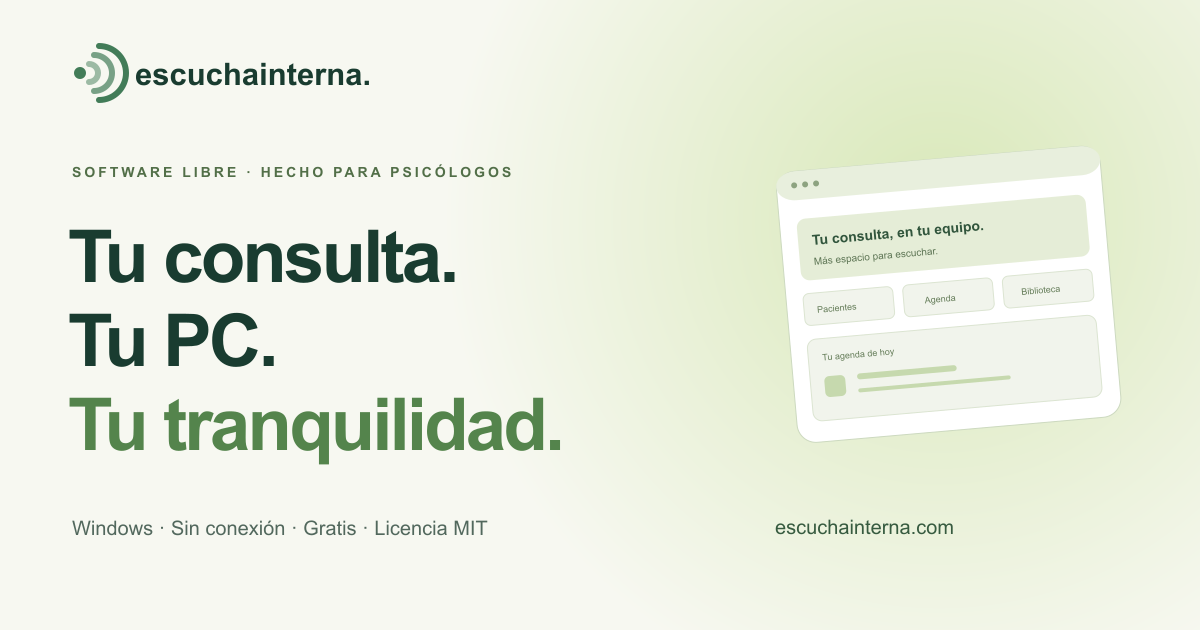
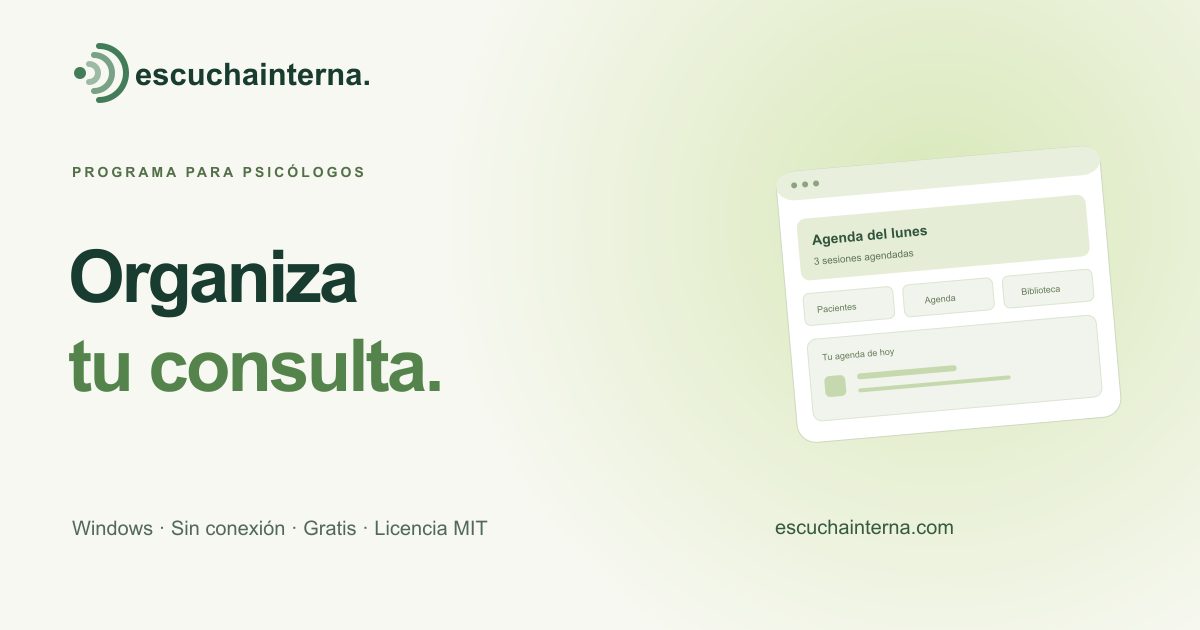
refine: textos web y diseño de consentimientos con Google

Changed region(s): [[0.0617, 0.3619, 0.4625, 0.754], [0.0617, 0.2413, 0.4317, 0.3016], [0.6783, 0.3619, 0.8017, 0.4222]]

diff --git a/src/components/showcase/OpenSourceShowcase.tsx b/src/components/showcase/OpenSourceShowcase.tsx
@@ -17,12 +17,12 @@ const PALETTES = [
 ];
 
 const FAQ = [
-  ['¿Es gratis de verdad?', 'Sí. La edición para PC no tiene suscripción ni período de prueba. El código propio tiene licencia MIT: puedes estudiarlo, modificarlo y contribuir. El apoyo en Ko-fi es voluntario. Los servicios externos que decidas conectar pueden tener sus propios costos.'],
-  ['¿Qué necesito para instalarlo?', 'Una PC con Windows de 64 bits. Descarga el instalador desde las versiones de GitHub, ejecútalo y crea tu cuenta local. El programa incluye su servidor y su base de datos: no necesitas instalar Node.js ni contratar alojamiento. macOS y Linux todavía no tienen un instalador publicado.'],
-  ['¿Puedo trabajar sin internet?', 'Sí: agenda, pacientes, expedientes, notas, registro de pagos y lecturas que hayas instalado funcionan en local. Google Drive, Calendar, correo e IA de proveedores necesitan internet y una configuración propia. Los recordatorios locales no se ejecutan con el programa cerrado.'],
-  ['¿Cómo continúo en otra PC?', 'Conecta una carpeta de Google Drive para escritorio y crea una contraseña de cifrado. Publica una versión de tu consulta, espera a que Drive la entregue y recíbela en la otra PC con la misma contraseña. Es un intercambio manual de versiones completas: trabaja en una PC a la vez; no fusiona cambios simultáneos. También puedes trasladar un respaldo cifrado.'],
-  ['¿Incluye inteligencia artificial, correo y Google Calendar?', 'Son opcionales. Puedes configurar tus claves de OpenAI, Anthropic o Resend. Calendar requiere tu propio cliente OAuth de escritorio y autorización de Google; permite publicar horarios privados y revisar conflictos. La aplicación sigue funcionando sin conectar estos servicios.'],
-  ['¿Qué incluye la biblioteca?', 'Un catálogo y lector para tus archivos y publicaciones instaladas. Los libros, publicaciones externas y el catálogo CIE-11 se distribuyen aparte; no están incluidos en el instalador público. Sus licencias son independientes de la licencia del código.'],
+  ['¿El programa es gratuito?', 'Sí. Puedes usar la edición para PC sin pagar una suscripción. El apoyo en Ko-fi es voluntario. Si conectas un proveedor de correo o IA, sus tarifas se pagan por separado.'],
+  ['¿Qué necesito para instalarlo?', 'Windows de 64 bits. Descarga y ejecuta el instalador de GitHub; después, crea tu cuenta en el programa. El instalador incluye todo lo necesario. Todavía no hay instaladores para macOS ni Linux.'],
+  ['¿Puedo trabajar sin internet?', 'Sí. Puedes consultar la agenda, los expedientes, los pagos y las lecturas instaladas sin conexión. Google Drive, Calendar, el envío de correo y la IA de proveedores requieren internet. Para ejecutar recordatorios locales, el programa debe estar abierto.'],
+  ['¿Cómo continúo en otra PC?', 'Configura una carpeta de Google Drive para escritorio y una contraseña de cifrado en ambas PCs. Desde el programa, envía una copia completa y recíbela en el otro equipo cuando Drive termine de transferirla. Usa una PC a la vez: los cambios simultáneos no se combinan. También puedes trasladar un respaldo cifrado.'],
+  ['¿Cómo conecto correo, IA o Google Calendar?', 'En Configuración puedes añadir tus claves de OpenAI, Anthropic o Resend. Para Calendar necesitas registrar un cliente OAuth de escritorio y autorizarlo en Google. Estas conexiones son opcionales.'],
+  ['¿Qué incluye la biblioteca?', 'La biblioteca permite organizar y leer los archivos que instales en cada equipo. El instalador público no incluye libros, publicaciones externas ni el catálogo CIE-11; estos contenidos se distribuyen por separado y tienen sus propias licencias.'],
 ];
 
 function ProjectBrand() {
@@ -41,10 +41,10 @@ function ProductPreview({ palette = 0, dark = false }: { palette?: number; dark?
       <div className={styles.previewContent}>
         <div className={styles.previewBreadcrumb}>Tu consulta <ChevronRight size={12} aria-hidden="true" /> {section}<span className={styles.localBadge}><i /> En esta PC</span></div>
         {section === 'Inicio' || section === 'Agenda' ? <>
-          <div className={styles.previewWelcome}><span>UN NUEVO DÍA EN TU CONSULTA</span><h3>{section === 'Inicio' ? 'Más espacio para escuchar.' : 'Tu día, con claridad.'}</h3><p>Lunes · Una vista de ejemplo</p><span className={styles.previewFlower} aria-hidden="true">✳</span></div>
+          <div className={styles.previewWelcome}><span>LUNES · AGENDA</span><h3>{section === 'Inicio' ? 'Agenda del lunes' : 'Sesiones de hoy'}</h3><p>3 sesiones agendadas · Datos de ejemplo</p><span className={styles.previewFlower} aria-hidden="true">✳</span></div>
           <div className={styles.previewActions}><span><Users size={16} aria-hidden="true" /> Nuevo paciente</span><span><CalendarDays size={16} aria-hidden="true" /> Agenda de hoy</span><span><BookOpen size={16} aria-hidden="true" /> Biblioteca</span></div>
           <div className={styles.previewAgenda}><div><h4>Tu agenda de hoy</h4><span>Ver agenda <ArrowRight size={12} aria-hidden="true" /></span></div>{[{ time: '09:00', initials: 'AL', label: 'Sesión individual', color: 'green' }, { time: '11:30', initials: 'MC', label: 'Sesión de seguimiento', color: 'purple' }, { time: '15:00', initials: 'JR', label: 'Primera consulta', color: 'warm' }].map(row => <div className={styles.previewBooking} key={row.time}><time>{row.time}</time><span className={styles.previewAvatar} data-color={row.color}>{row.initials}</span><div><strong>{row.label}</strong><small>Paciente de ejemplo · 50 min</small></div><span className={styles.previewStatus}>Agendada</span></div>)}</div>
-        </> : section === 'Pacientes' ? <><div className={styles.previewWelcome}><span>CADA HISTORIA, EN SU LUGAR</span><h3>Pacientes y expedientes.</h3><p>Plantillas, notas y documentos a mano.</p></div><div className={styles.previewAgenda}><h4>Vista de ejemplo</h4>{['Paciente de ejemplo A', 'Paciente de ejemplo B', 'Paciente de ejemplo C'].map((name, index) => <div key={name} className={styles.previewBooking}><span className={styles.previewAvatar}>{index + 1}</span><div><strong>{name}</strong><small>Historia clínica · Notas de sesión</small></div><FileText size={17} aria-hidden="true" /></div>)}</div></> : <><div className={styles.previewWelcome}><span>MENOS HOJAS DE CÁLCULO</span><h3>Pagos con perspectiva.</h3><p>Un registro local de tu actividad.</p></div><div className={styles.previewAgenda}><h4>Resumen ilustrativo</h4><div className={styles.previewMetrics}><div><small>Sesiones registradas</small><strong>24</strong></div><div><small>Pagos al día</small><strong>21</strong></div></div><div className={styles.previewChart} aria-hidden="true">{[35, 52, 43, 67, 58, 82, 70, 95].map((height, index) => <span key={index} style={{ height: `${height}%` }} />)}</div></div></>}
+        </> : section === 'Pacientes' ? <><div className={styles.previewWelcome}><span>EXPEDIENTES</span><h3>Pacientes</h3><p>Historias clínicas, notas y documentos.</p></div><div className={styles.previewAgenda}><h4>Vista de ejemplo</h4>{['Paciente de ejemplo A', 'Paciente de ejemplo B', 'Paciente de ejemplo C'].map((name, index) => <div key={name} className={styles.previewBooking}><span className={styles.previewAvatar}>{index + 1}</span><div><strong>{name}</strong><small>Historia clínica · Notas de sesión</small></div><FileText size={17} aria-hidden="true" /></div>)}</div></> : <><div className={styles.previewWelcome}><span>ACTIVIDAD REGISTRADA</span><h3>Registro de pagos</h3><p>Consulta los cobros de tus sesiones.</p></div><div className={styles.previewAgenda}><h4>Resumen ilustrativo</h4><div className={styles.previewMetrics}><div><small>Sesiones registradas</small><strong>24</strong></div><div><small>Pagos al día</small><strong>21</strong></div></div><div className={styles.previewChart} aria-hidden="true">{[35, 52, 43, 67, 58, 82, 70, 95].map((height, index) => <span key={index} style={{ height: `${height}%` }} />)}</div></div></>}
         <p className={styles.previewFootnote}>Demostración interactiva · Datos ficticios</p>
       </div>
     </div>
@@ -70,41 +70,41 @@ export function OpenSourceShowcase() {
   const closeMenu = () => setMenuOpen(false);
   return <div className={styles.showcase} ref={root} data-motion-paused={motionPaused ? 'true' : 'false'}>
     <a href="#contenido" className={styles.skipLink}>Saltar al contenido</a>
-    <header className={styles.header}><div className={styles.navInner}><ProjectBrand /><button type="button" className={styles.menuToggle} aria-label={menuOpen ? 'Cerrar menú' : 'Abrir menú'} aria-expanded={menuOpen} aria-controls="showcase-navigation" onClick={() => setMenuOpen(!menuOpen)}>{menuOpen ? <X size={23} /> : <Menu size={23} />}</button><nav id="showcase-navigation" aria-label="Navegación principal" className={styles.nav} data-open={menuOpen ? 'true' : 'false'}><a href="#aplicacion" onClick={closeMenu}>La aplicación</a><a href="#apariencia" onClick={closeMenu}>A tu manera</a><a href="#proyecto" onClick={closeMenu}>Código abierto</a><a href={PROJECT_LINKS.support} target="_blank" rel="noopener noreferrer" className={styles.navSupport}><Coffee size={15} aria-hidden="true" /> Apoyar</a><a href={PROJECT_LINKS.download} className={styles.navDownload}><Download size={15} aria-hidden="true" /> Descargar</a></nav></div></header>
+    <header className={styles.header}><div className={styles.navInner}><ProjectBrand /><button type="button" className={styles.menuToggle} aria-label={menuOpen ? 'Cerrar menú' : 'Abrir menú'} aria-expanded={menuOpen} aria-controls="showcase-navigation" onClick={() => setMenuOpen(!menuOpen)}>{menuOpen ? <X size={23} /> : <Menu size={23} />}</button><nav id="showcase-navigation" aria-label="Navegación principal" className={styles.nav} data-open={menuOpen ? 'true' : 'false'}><a href="#aplicacion" onClick={closeMenu}>La aplicación</a><a href="#apariencia" onClick={closeMenu}>Temas</a><a href="#proyecto" onClick={closeMenu}>Código abierto</a><a href={PROJECT_LINKS.support} target="_blank" rel="noopener noreferrer" className={styles.navSupport}><Coffee size={15} aria-hidden="true" /> Apoyar</a><a href={PROJECT_LINKS.download} className={styles.navDownload}><Download size={15} aria-hidden="true" /> Descargar</a></nav></div></header>
     <main id="contenido">
       <section className={styles.hero} aria-labelledby="hero-title">
         <div className={styles.heroGlow} aria-hidden="true" /><div className={styles.heroGrid} aria-hidden="true" />
-        <div className={styles.heroCopy}><span className={styles.eyebrow}><i /> SOFTWARE LIBRE · HECHO PARA PSICÓLOGOS</span><h1 id="hero-title">Tu consulta.<br />Tu PC.<br /><span>Tu tranquilidad.</span></h1><p>Un espacio para organizar tu práctica y concentrarte en lo que importa: escuchar. Gratis, de código abierto y con tus datos en tu equipo.</p><div className={styles.heroButtons}><a href={PROJECT_LINKS.download} className={styles.buttonPrimary}><Download size={19} aria-hidden="true" /> Descargar para Windows <ArrowUpRight size={17} aria-hidden="true" /></a><a href={PROJECT_LINKS.repository} className={styles.buttonSecondary}><Github size={19} aria-hidden="true" /> Ver el código</a></div><span className={styles.heroMeta}>Windows de 64 bits <span>·</span> Licencia MIT <span>·</span> Sin suscripción</span><a href="#aplicacion" className={styles.heroExplore}><span><ArrowDown size={16} aria-hidden="true" /></span> Descubre tu nuevo espacio de trabajo</a></div>
-        <div className={styles.heroProduct}><div className={styles.heroOrbit} aria-hidden="true" /><ProductPreview /><div className={`${styles.floatingNote} ${styles.offlineNote}`}><span><WifiOff size={19} aria-hidden="true" /></span><div><strong>Internet puede esperar.</strong><small>Tu consulta sigue funcionando.</small></div></div><div className={`${styles.floatingNote} ${styles.privacyNote}`}><ShieldCheck size={19} aria-hidden="true" /><span>Tus datos se quedan contigo.</span></div></div>
+        <div className={styles.heroCopy}><span className={styles.eyebrow}><i /> PROGRAMA PARA PSICÓLOGOS</span><h1 id="hero-title">Organiza<br /><span>tu consulta.</span></h1><p>Agenda, pacientes, historias clínicas y pagos en una aplicación para Windows. Puedes trabajar sin internet y guardar la información en tu equipo.</p><div className={styles.heroButtons}><a href={PROJECT_LINKS.download} className={styles.buttonPrimary}><Download size={19} aria-hidden="true" /> Descargar para Windows <ArrowUpRight size={17} aria-hidden="true" /></a><a href={PROJECT_LINKS.repository} className={styles.buttonSecondary}><Github size={19} aria-hidden="true" /> Ver el código</a></div><span className={styles.heroMeta}>Windows de 64 bits <span>·</span> Licencia MIT <span>·</span> Sin suscripción</span><a href="#aplicacion" className={styles.heroExplore}><span><ArrowDown size={16} aria-hidden="true" /></span> Conoce el programa</a></div>
+        <div className={styles.heroProduct}><div className={styles.heroOrbit} aria-hidden="true" /><ProductPreview /><div className={`${styles.floatingNote} ${styles.offlineNote}`}><span><WifiOff size={19} aria-hidden="true" /></span><div><strong>Disponible sin conexión</strong><small>Agenda y expedientes en tu PC.</small></div></div><div className={`${styles.floatingNote} ${styles.privacyNote}`}><ShieldCheck size={19} aria-hidden="true" /><span>Información guardada en tu equipo</span></div></div>
       </section>
 
-      <div className={styles.principles} aria-label="Beneficios principales"><span><HardDrive size={20} aria-hidden="true" /> Primero, tu PC</span><span><WifiOff size={20} aria-hidden="true" /> Funciona sin conexión</span><span><Code2 size={20} aria-hidden="true" /> Código que puedes explorar</span><span><Heart size={20} aria-hidden="true" /> Apoyo voluntario</span></div>
+      <div className={styles.principles} aria-label="Beneficios principales"><span><HardDrive size={20} aria-hidden="true" /> Instalación en Windows</span><span><WifiOff size={20} aria-hidden="true" /> Funciona sin conexión</span><span><Code2 size={20} aria-hidden="true" /> Código abierto</span><span><Heart size={20} aria-hidden="true" /> Apoyo voluntario</span></div>
 
       <section id="aplicacion" className={styles.section} aria-labelledby="app-title">
-        <div className={styles.sectionHeading} data-reveal><div><span className={styles.kicker}>MENOS RUIDO. MÁS CONSULTA.</span><h2 id="app-title">Todo encuentra<br /><span>su lugar.</span></h2></div><p>De la primera cita a la siguiente sesión. Las herramientas de tu día a día, juntas en una aplicación que abre en tu PC.</p></div>
+        <div className={styles.sectionHeading} data-reveal><div><span className={styles.kicker}>HERRAMIENTAS</span><h2 id="app-title">Para el trabajo<br /><span>de cada día.</span></h2></div><p>Consulta las citas, completa una historia clínica o registra un cobro desde el mismo programa.</p></div>
         <div className={styles.bento}>
-          <article className={`${styles.bentoCard} ${styles.agendaCard}`} data-reveal><div className={styles.cardIcon}><CalendarDays size={25} aria-hidden="true" /></div><h3>Una agenda que da aire.</h3><p>Organiza horarios, disponibilidad y sesiones. Cambia entre vistas de calendario para entender tu día de un vistazo.</p><div className={styles.calendarArt} aria-hidden="true"><div><span>L</span><span>M</span><span>X</span><span>J</span><span>V</span></div><div className={styles.calendarCells}>{Array.from({length: 15}, (_, i) => <span key={i} className={[2, 7, 10].includes(i) ? styles.calendarBooked : ''}>{[2, 7, 10].includes(i) ? <><i />Sesión</> : ''}</span>)}</div></div><span className={styles.cardLabel}>AGENDA Y DISPONIBILIDAD</span></article>
-          <article className={`${styles.bentoCard} ${styles.recordsCard}`} data-reveal><div className={styles.cardIcon}><FolderHeart size={25} aria-hidden="true" /></div><h3>Cada historia merece cuidado.</h3><p>Pacientes, historias clínicas con plantillas, notas de sesión y archivos. Un hilo para seguir cada proceso.</p><div className={styles.recordArt} aria-hidden="true"><span><FileText size={17} /> Historia clínica <Check size={15} /></span><span><FileText size={17} /> Nota de sesión <Check size={15} /></span><span><FolderHeart size={17} /> Documentos <ChevronRight size={15} /></span></div><span className={styles.cardLabel}>PACIENTES Y EXPEDIENTES</span></article>
-          <article className={`${styles.bentoCard} ${styles.paymentsCard}`} data-reveal><Wallet size={25} aria-hidden="true" /><h3>Más claridad en tus pagos.</h3><p>Registra cobros y consulta el resumen de tu actividad, sin otra hoja de cálculo.</p><span className={styles.cardLabel}>REGISTRO LOCAL</span></article>
-          <article className={`${styles.bentoCard} ${styles.libraryCard}`} data-reveal><BookOpen size={25} aria-hidden="true" /><h3>Lecturas a mano.</h3><p>Organiza tu catálogo y lee los libros y publicaciones que instales en cada equipo.</p><span className={styles.cardLabel}>BIBLIOTECA Y LECTOR</span></article>
+          <article className={`${styles.bentoCard} ${styles.agendaCard}`} data-reveal><div className={styles.cardIcon}><CalendarDays size={25} aria-hidden="true" /></div><h3>Agenda de sesiones</h3><p>Define tu disponibilidad, agenda las sesiones y consulta el calendario por día, semana o mes.</p><div className={styles.calendarArt} aria-hidden="true"><div><span>L</span><span>M</span><span>X</span><span>J</span><span>V</span></div><div className={styles.calendarCells}>{Array.from({length: 15}, (_, i) => <span key={i} className={[2, 7, 10].includes(i) ? styles.calendarBooked : ''}>{[2, 7, 10].includes(i) ? <><i />Sesión</> : ''}</span>)}</div></div><span className={styles.cardLabel}>AGENDA Y DISPONIBILIDAD</span></article>
+          <article className={`${styles.bentoCard} ${styles.recordsCard}`} data-reveal><div className={styles.cardIcon}><FolderHeart size={25} aria-hidden="true" /></div><h3>Pacientes y expedientes</h3><p>Completa historias clínicas con plantillas y guarda las notas de cada sesión junto a los documentos del paciente.</p><div className={styles.recordArt} aria-hidden="true"><span><FileText size={17} /> Historia clínica <Check size={15} /></span><span><FileText size={17} /> Nota de sesión <Check size={15} /></span><span><FolderHeart size={17} /> Documentos <ChevronRight size={15} /></span></div><span className={styles.cardLabel}>PACIENTES Y EXPEDIENTES</span></article>
+          <article className={`${styles.bentoCard} ${styles.paymentsCard}`} data-reveal><Wallet size={25} aria-hidden="true" /><h3>Cobros y pagos pendientes</h3><p>Registra los cobros de las sesiones y revisa los pagos pendientes.</p><span className={styles.cardLabel}>REGISTRO LOCAL</span></article>
+          <article className={`${styles.bentoCard} ${styles.libraryCard}`} data-reveal><BookOpen size={25} aria-hidden="true" /><h3>Biblioteca</h3><p>Consulta tu catálogo y abre los libros y publicaciones instalados en el equipo.</p><span className={styles.cardLabel}>BIBLIOTECA Y LECTOR</span></article>
         </div>
-        <details className={styles.realCapture}><summary><LayoutDashboard size={17} aria-hidden="true" /> Ver una captura real del programa <span aria-hidden="true">+</span></summary><figure><Image src="/showcase/programa.webp" width={1440} height={940} sizes="(max-width: 600px) 100vw, 1200px" alt="Pantalla de inicio de EscuchaInterna para PC, con accesos a pacientes, agenda y biblioteca, en una instalación de prueba vacía." /><figcaption>Captura de una instalación de prueba. Sin información real de pacientes.</figcaption></figure></details>
+        <details className={styles.realCapture}><summary><LayoutDashboard size={17} aria-hidden="true" /> Ver una captura real del programa <span aria-hidden="true">+</span></summary><figure><Image src="/showcase/programa.webp" width={1440} height={940} sizes="(max-width: 600px) 100vw, 1200px" alt="Pantalla de inicio de EscuchaInterna para PC, con accesos a pacientes, agenda y biblioteca, en una instalación de prueba vacía." /><figcaption>Inicio del programa en una instalación de prueba, sin datos de pacientes.</figcaption></figure></details>
       </section>
 
-      <section className={styles.controlSection} aria-labelledby="control-title"><div className={styles.controlCopy} data-reveal><span className={styles.kicker}>LOCAL POR CONVICCIÓN</span><h2 id="control-title">Tu trabajo.<br /><span>Bajo tu control.</span></h2><p>Abre el programa y sigue con tu consulta. Sin contratar un servidor para comenzar, sin una cuota mensual para acceder a tus expedientes.</p><ul><li><Check size={18} aria-hidden="true" /><span><strong>Trabaja sin conexión.</strong> Tus herramientas principales viven en el equipo.</span></li><li><Check size={18} aria-hidden="true" /><span><strong>Conserva una copia.</strong> Crea y restaura respaldos cifrados con contraseña.</span></li><li><Check size={18} aria-hidden="true" /><span><strong>Elige qué conectas.</strong> Correo, IA y Calendar son servicios opcionales con configuración propia.</span></li></ul></div><div className={styles.controlVisual} data-reveal><div className={styles.connectionLine} aria-hidden="true" /><div className={styles.deviceCard}><HardDrive size={34} aria-hidden="true" /><strong>Tu PC</strong><small>Consulta y archivos locales</small><span><ShieldCheck size={14} aria-hidden="true" /> Contenido clínico cifrado</span></div><div className={styles.driveCard}><Cloud size={25} aria-hidden="true" /><div><strong>Otra PC, el mismo espacio.</strong><p>Publica y recibe versiones cifradas con Google Drive para escritorio.</p><a href={`${PROJECT_LINKS.repository}/blob/main/docs/desktop-sync.md`}>Cómo funciona <ArrowUpRight size={14} aria-hidden="true" /></a></div></div><p className={styles.controlNote}>Tú decides cuándo transferir. Drive entrega las versiones; la app no combina cambios simultáneos.</p></div></section>
+      <section className={styles.controlSection} aria-labelledby="control-title"><div className={styles.controlCopy} data-reveal><span className={styles.kicker}>DATOS Y RESPALDOS</span><h2 id="control-title">La información<br /><span>en tu equipo.</span></h2><p>La consulta se guarda en la PC donde instalas el programa. Puedes crear respaldos para recuperar la información o trasladarla a otro equipo.</p><ul><li><Check size={18} aria-hidden="true" /><span><strong>Acceso local.</strong> Consulta y edita los expedientes sin conexión.</span></li><li><Check size={18} aria-hidden="true" /><span><strong>Respaldos con contraseña.</strong> Guarda una copia cifrada y restáurala cuando la necesites.</span></li><li><Check size={18} aria-hidden="true" /><span><strong>Conexiones opcionales.</strong> Configura correo, IA o Calendar si los necesitas.</span></li></ul></div><div className={styles.controlVisual} data-reveal><div className={styles.connectionLine} aria-hidden="true" /><div className={styles.deviceCard}><HardDrive size={34} aria-hidden="true" /><strong>Tu PC</strong><small>Consulta y archivos locales</small><span><ShieldCheck size={14} aria-hidden="true" /> Contenido clínico cifrado</span></div><div className={styles.driveCard}><Cloud size={25} aria-hidden="true" /><div><strong>Transferir a otra PC</strong><p>Google Drive para escritorio puede transferir las copias cifradas que creas desde el programa.</p><a href={`${PROJECT_LINKS.repository}/blob/main/docs/desktop-sync.md`}>Cómo funciona <ArrowUpRight size={14} aria-hidden="true" /></a></div></div><p className={styles.controlNote}>La transferencia se inicia desde la aplicación. Usa una PC a la vez para evitar versiones distintas de la consulta.</p></div></section>
 
-      <section id="apariencia" className={`${styles.section} ${styles.appearanceSection}`} aria-labelledby="appearance-title"><div className={styles.sectionHeading} data-reveal><div><span className={styles.kicker}>UN POCO MÁS TUYO</span><h2 id="appearance-title">También puede<br /><span>sentirse como tú.</span></h2></div><p>Seis paletas, modo día, noche o automático. Colores para encontrar tu ritmo y movimiento que respeta tus preferencias.</p></div><div className={styles.appearanceDemo} data-reveal><div className={styles.appearanceControls}><h3>Prueba una combinación.</h3><p>Esta vista cambia aquí mismo.<br />Tu consulta se configura dentro del programa.</p><div className={styles.swatches} role="group" aria-label="Paleta de la demostración">{PALETTES.map((theme, i) => <button type="button" key={theme.name} onClick={() => setPalette(i)} aria-label={theme.name} aria-pressed={palette === i} style={{ '--swatch': theme.color } as React.CSSProperties}><span>{palette === i ? <Check size={17} aria-hidden="true" /> : null}</span><small>{theme.name}</small></button>)}</div><div className={styles.modeSwitch} role="group" aria-label="Modo de la demostración"><button type="button" aria-pressed={!darkPreview} onClick={() => setDarkPreview(false)}><Sun size={16} aria-hidden="true" /> Día</button><button type="button" aria-pressed={darkPreview} onClick={() => setDarkPreview(true)}><Moon size={16} aria-hidden="true" /> Noche</button></div><div className={styles.appearanceTip}><Palette size={19} aria-hidden="true" /><span>Pequeños detalles.<br /><strong>Un espacio más cómodo.</strong></span></div></div><div className={styles.themePreview}><ProductPreview palette={palette} dark={darkPreview} /></div></div></section>
+      <section id="apariencia" className={`${styles.section} ${styles.appearanceSection}`} aria-labelledby="appearance-title"><div className={styles.sectionHeading} data-reveal><div><span className={styles.kicker}>APARIENCIA</span><h2 id="appearance-title">Elige un tema<br /><span>para el programa.</span></h2></div><p>Hay seis paletas y modos día, noche y automático. También puedes reducir o desactivar las animaciones.</p></div><div className={styles.appearanceDemo} data-reveal><div className={styles.appearanceControls}><h3>Prueba los colores</h3><p>Elige una paleta y un modo para verlos en esta demostración.</p><div className={styles.swatches} role="group" aria-label="Paleta de la demostración">{PALETTES.map((theme, i) => <button type="button" key={theme.name} onClick={() => setPalette(i)} aria-label={theme.name} aria-pressed={palette === i} style={{ '--swatch': theme.color } as React.CSSProperties}><span>{palette === i ? <Check size={17} aria-hidden="true" /> : null}</span><small>{theme.name}</small></button>)}</div><div className={styles.modeSwitch} role="group" aria-label="Modo de la demostración"><button type="button" aria-pressed={!darkPreview} onClick={() => setDarkPreview(false)}><Sun size={16} aria-hidden="true" /> Día</button><button type="button" aria-pressed={darkPreview} onClick={() => setDarkPreview(true)}><Moon size={16} aria-hidden="true" /> Noche</button></div><div className={styles.appearanceTip}><Palette size={19} aria-hidden="true" /><span>Puedes cambiar el tema en<br /><strong>Configuración → Apariencia.</strong></span></div></div><div className={styles.themePreview}><ProductPreview palette={palette} dark={darkPreview} /></div></div></section>
 
-      <section id="proyecto" className={styles.openSection} aria-labelledby="open-title"><div className={styles.openArtwork} aria-hidden="true"><span>{'{ '}</span><Heart size={74} strokeWidth={1.4} /><span>{' }'}</span><small>MIT · HECHO PARA COMPARTIR</small></div><div data-reveal><span className={styles.kicker}>ABIERTO DESDE EL CÓDIGO</span><h2 id="open-title">Las buenas herramientas<br />crecen en comunidad.</h2><p>EscuchaInterna es un proyecto que puedes usar, estudiar y mejorar. El código está en GitHub, con licencia MIT. Tu experiencia también puede darle forma.</p><div className={styles.contributionLinks}><a href={PROJECT_LINKS.repository}><Github size={18} aria-hidden="true" /> Explorar el repositorio <ArrowUpRight size={15} aria-hidden="true" /></a><a href={PROJECT_LINKS.issues}>Proponer una mejora <ArrowUpRight size={15} aria-hidden="true" /></a></div><div className={styles.openFacts}><span><Code2 size={15} aria-hidden="true" /> Código accesible</span><a href={PROJECT_LINKS.license}>Licencia MIT <ArrowUpRight size={13} aria-hidden="true" /></a><span>Desarrollo en evolución</span></div></div></section>
+      <section id="proyecto" className={styles.openSection} aria-labelledby="open-title"><div className={styles.openArtwork} aria-hidden="true"><span>{'{ '}</span><Heart size={74} strokeWidth={1.4} /><span>{' }'}</span><small>LICENCIA MIT</small></div><div data-reveal><span className={styles.kicker}>EL PROYECTO</span><h2 id="open-title">Un proyecto<br />de código abierto.</h2><p>El código de EscuchaInterna está en GitHub con licencia MIT. Puedes revisarlo, modificarlo y contribuir con cambios. Si encuentras un error o necesitas una función, abre una propuesta en el repositorio.</p><div className={styles.contributionLinks}><a href={PROJECT_LINKS.repository}><Github size={18} aria-hidden="true" /> Explorar el repositorio <ArrowUpRight size={15} aria-hidden="true" /></a><a href={PROJECT_LINKS.issues}>Proponer una mejora <ArrowUpRight size={15} aria-hidden="true" /></a></div><div className={styles.openFacts}><span><Code2 size={15} aria-hidden="true" /> Repositorio público</span><a href={PROJECT_LINKS.license}>Licencia MIT <ArrowUpRight size={13} aria-hidden="true" /></a><span>Contribuciones bienvenidas</span></div></div></section>
 
-      <section id="empezar" className={`${styles.section} ${styles.stepsSection}`} aria-labelledby="steps-title"><div className={styles.sectionHeading} data-reveal><div><span className={styles.kicker}>DE AQUÍ A TU ESCRITORIO</span><h2 id="steps-title">Empieza con calma.<br /><span>En tres pasos.</span></h2></div><a href={PROJECT_LINKS.guide} className={styles.textLink}>Ver la guía de instalación <ArrowUpRight size={16} aria-hidden="true" /></a></div><ol className={styles.steps}><li data-reveal><span>01</span><Download size={24} aria-hidden="true" /><h3>Descarga.</h3><p>Encuentra el instalador para Windows de 64 bits en las versiones de GitHub.</p></li><li data-reveal><span>02</span><HardDrive size={24} aria-hidden="true" /><h3>Abre tu espacio.</h3><p>Instala el programa y crea una cuenta local. Todo lo necesario viene en el instalador.</p></li><li data-reveal><span>03</span><Heart size={24} aria-hidden="true" /><h3>Hazlo tuyo.</h3><p>Elige tu tema, organiza tu agenda y guarda tu primer respaldo. A tu ritmo.</p></li></ol></section>
+      <section id="empezar" className={`${styles.section} ${styles.stepsSection}`} aria-labelledby="steps-title"><div className={styles.sectionHeading} data-reveal><div><span className={styles.kicker}>INSTALACIÓN</span><h2 id="steps-title">Cómo instalar<br /><span>EscuchaInterna.</span></h2></div><a href={PROJECT_LINKS.guide} className={styles.textLink}>Ver la guía de instalación <ArrowUpRight size={16} aria-hidden="true" /></a></div><ol className={styles.steps}><li data-reveal><span>01</span><Download size={24} aria-hidden="true" /><h3>Descarga el instalador</h3><p>Abre la página de versiones de GitHub y descarga el archivo .exe para Windows de 64 bits.</p></li><li data-reveal><span>02</span><HardDrive size={24} aria-hidden="true" /><h3>Instala y crea tu cuenta</h3><p>Ejecuta el archivo, abre EscuchaInterna y crea tu cuenta local.</p></li><li data-reveal><span>03</span><Heart size={24} aria-hidden="true" /><h3>Configura tu consulta</h3><p>Completa tu perfil, define los horarios de atención y guarda un primer respaldo.</p></li></ol></section>
 
-      <section id="preguntas" className={`${styles.section} ${styles.faqSection}`} aria-labelledby="faq-title"><div><span className={styles.kicker}>ANTES DE EMPEZAR</span><h2 id="faq-title">Con las cosas<br /><span>claras.</span></h2><p>Lo esencial sobre esta edición para PC.</p></div><div className={styles.faqList}>{FAQ.map(([question, answer]) => <details key={question}><summary>{question}<span aria-hidden="true">+</span></summary><p>{answer}</p></details>)}</div></section>
+      <section id="preguntas" className={`${styles.section} ${styles.faqSection}`} aria-labelledby="faq-title"><div><span className={styles.kicker}>AYUDA</span><h2 id="faq-title">Preguntas<br /><span>frecuentes.</span></h2><p>Instalación, conexiones y traslado de datos.</p></div><div className={styles.faqList}>{FAQ.map(([question, answer]) => <details key={question}><summary>{question}<span aria-hidden="true">+</span></summary><p>{answer}</p></details>)}</div></section>
 
-      <section id="apoyar" className={styles.supportSection} aria-labelledby="support-title"><div className={styles.coffeeArt} aria-hidden="true"><Coffee size={68} strokeWidth={1.4} /><Heart size={19} className={styles.coffeeHeart} /></div><div><span className={styles.kicker}>UN CAFÉ TAMBIÉN CONSTRUYE</span><h2 id="support-title">Si te sirve, ayúdalo a crecer.</h2><p>Detrás del código hay tiempo, cuidado y ganas de hacerlo mejor. Puedes apoyar a Laroc en Ko-fi para acompañar el desarrollo de EscuchaInterna.</p><span>Voluntario, siempre. El programa sigue siendo gratuito.</span></div><a href={PROJECT_LINKS.support} target="_blank" rel="noopener noreferrer" className={styles.buttonCoffee}><Coffee size={19} aria-hidden="true" /> Invítame a un café <ArrowUpRight size={17} aria-hidden="true" /></a></section>
+      <section id="apoyar" className={styles.supportSection} aria-labelledby="support-title"><div className={styles.coffeeArt} aria-hidden="true"><Coffee size={68} strokeWidth={1.4} /><Heart size={19} className={styles.coffeeHeart} /></div><div><span className={styles.kicker}>KO-FI DE LAROC</span><h2 id="support-title">Apoya el desarrollo</h2><p>Si usas EscuchaInterna y quieres apoyar el trabajo de Laroc, puedes hacer una aportación en Ko-fi.</p><span>La aportación es voluntaria y no desbloquea funciones.</span></div><a href={PROJECT_LINKS.support} target="_blank" rel="noopener noreferrer" className={styles.buttonCoffee}><Coffee size={19} aria-hidden="true" /> Apoyar en Ko-fi <ArrowUpRight size={17} aria-hidden="true" /></a></section>
 
-      <section className={styles.finalSection} aria-labelledby="final-title"><span className={styles.eyebrow}><i /> TU NUEVO ESPACIO DE TRABAJO</span><h2 id="final-title">Más atención.<br /><span>Menos distracciones.</span></h2><p>Haz espacio para tu consulta. Lo demás, organízalo aquí.</p><a href={PROJECT_LINKS.download} className={styles.buttonPrimary}><Download size={19} aria-hidden="true" /> Descargar EscuchaInterna <ArrowUpRight size={17} aria-hidden="true" /></a><small>Para Windows de 64 bits · Gratis · Código abierto</small></section>
+      <section className={styles.finalSection} aria-labelledby="final-title"><span className={styles.eyebrow}><i /> EDICIÓN PARA WINDOWS</span><h2 id="final-title">Descarga<br /><span>EscuchaInterna.</span></h2><p>El instalador y las notas de cada versión están disponibles en GitHub.</p><a href={PROJECT_LINKS.download} className={styles.buttonPrimary}><Download size={19} aria-hidden="true" /> Descargar EscuchaInterna <ArrowUpRight size={17} aria-hidden="true" /></a><small>Para Windows de 64 bits · Gratis · Código abierto</small></section>
     </main>
-    <footer className={styles.footer}><div className={styles.footerTop}><div><ProjectBrand /><p>Hecho para escuchar mejor.<br />Construido para compartir.</p></div><div><strong>Programa</strong><a href={PROJECT_LINKS.download}>Descargar para Windows</a><a href={PROJECT_LINKS.releases}>Versiones y novedades</a><a href={PROJECT_LINKS.guide}>Guía de instalación</a></div><div><strong>Comunidad</strong><a href={PROJECT_LINKS.repository}>GitHub</a><a href={PROJECT_LINKS.issues}>Errores y propuestas</a><a href={PROJECT_LINKS.support} target="_blank" rel="noopener noreferrer">Ko-fi de Laroc ↗</a></div><div><strong>Proyecto</strong><a href={PROJECT_LINKS.license}>Licencia MIT</a><a href="/legal/privacidad">Privacidad de la web</a><a href="/legal/terminos">Condiciones de uso</a><a href="/login">Acceso web existente</a></div></div><div className={styles.footerBottom}><span>© {new Date().getFullYear()} EscuchaInterna · Código propio bajo licencia MIT</span><button type="button" aria-pressed={motionPaused} onClick={() => setMotionPaused(!motionPaused)}>{motionPaused ? <Play size={13} aria-hidden="true" /> : <span aria-hidden="true">Ⅱ</span>}{motionPaused ? 'Activar animaciones' : 'Pausar animaciones'}</button><a href="#">Volver arriba ↑</a></div></footer>
+    <footer className={styles.footer}><div className={styles.footerTop}><div><ProjectBrand /><p>Gestión de consulta para psicólogos.<br />Disponible para Windows.</p></div><div><strong>Programa</strong><a href={PROJECT_LINKS.download}>Descargar para Windows</a><a href={PROJECT_LINKS.releases}>Versiones y novedades</a><a href={PROJECT_LINKS.guide}>Guía de instalación</a></div><div><strong>Comunidad</strong><a href={PROJECT_LINKS.repository}>GitHub</a><a href={PROJECT_LINKS.issues}>Errores y propuestas</a><a href={PROJECT_LINKS.support} target="_blank" rel="noopener noreferrer">Ko-fi de Laroc ↗</a></div><div><strong>Proyecto</strong><a href={PROJECT_LINKS.license}>Licencia MIT</a><a href="/legal/privacidad">Privacidad de la web</a><a href="/legal/terminos">Condiciones de uso</a><a href="/login">Acceso web existente</a></div></div><div className={styles.footerBottom}><span>© {new Date().getFullYear()} EscuchaInterna · Código propio bajo licencia MIT</span><button type="button" aria-pressed={motionPaused} onClick={() => setMotionPaused(!motionPaused)}>{motionPaused ? <Play size={13} aria-hidden="true" /> : <span aria-hidden="true">Ⅱ</span>}{motionPaused ? 'Activar animaciones' : 'Pausar animaciones'}</button><a href="#">Volver arriba ↑</a></div></footer>
   </div>;
 }

diff --git a/src/app/page.tsx b/src/app/page.tsx
@@ -13,12 +13,12 @@ export function generateMetadata(): Metadata {
     title: 'EscuchaInterna para PC — Tu consulta en tu equipo',
     description: 'Aplicación local de código abierto para organizar la consulta, con cuentas propias y sin suscripción.',
   };
-  const title = 'EscuchaInterna — Tu consulta, en tu PC. Libre y abierta.';
-  const description = 'Organiza agenda, pacientes, expedientes y pagos en Windows. Trabaja sin conexión, elige tus temas y conserva el control de tus datos. Gratis y de código abierto, con licencia MIT.';
+  const title = 'EscuchaInterna — Gestión de consulta para Windows';
+  const description = 'Agenda, pacientes, historias clínicas y pagos en una aplicación para Windows. Funciona sin conexión. Gratuita y de código abierto, con licencia MIT.';
   return {
     title, description,
     alternates: { canonical: 'https://escuchainterna.com' },
-    openGraph: { title, description, url: 'https://escuchainterna.com', siteName: 'EscuchaInterna', locale: 'es_ES', type: 'website', images: [{ url: 'https://escuchainterna.com/showcase/social.png', width: 1200, height: 630, alt: 'EscuchaInterna: tu consulta en tu PC, libre y abierta' }] },
+    openGraph: { title, description, url: 'https://escuchainterna.com', siteName: 'EscuchaInterna', locale: 'es_ES', type: 'website', images: [{ url: 'https://escuchainterna.com/showcase/social.png', width: 1200, height: 630, alt: 'EscuchaInterna: gestión de consulta para Windows' }] },
     twitter: { card: 'summary_large_image', title, description },
   };
 }

diff --git a/docs/consentimiento-google-propuesta.md b/docs/consentimiento-google-propuesta.md
@@ -1,0 +1,50 @@
+# Consentimientos con Google y EscuchaInterna
+
+Propuesta de producto del 5 de octubre de 2026. La recepción automática descrita aquí todavía no está implementada.
+
+## Flujo para la consulta
+
+1. **Guardar una plantilla.** Importar el consentimiento que ya usa el profesional: PDF, Word o Google Docs. Conservar el original y crear una versión nueva cuando cambie. Para rellenar nombres y fechas automáticamente, habría que definir campos en el documento editable; un PDF sin campos se conserva tal como está.
+2. **Preparar el documento de un paciente.** Desde su expediente, elegir la plantilla y revisar el destinatario. Guardar una copia exacta del documento preparado y un identificador aleatorio de solicitud. El identificador sirve para relacionar la respuesta con el expediente, sin depender del nombre del archivo.
+3. **Entregarlo para firmar.** Ofrecer «Descargar para firma presencial» y, si se configura Google, «Abrir en Google para solicitar firma» o «Copiar enlace de recepción». Copiar un enlace no marca el documento como enviado; registrar por separado la entrega confirmada.
+4. **Recibir la copia firmada.** Google guarda el archivo recibido en una carpeta privada destinada a consentimientos. Cuando EscuchaInterna esté abierta y Drive haya terminado de descargarlo, importarlo a una bandeja de documentos pendientes de revisión. Conservar el archivo original y la evidencia de recepción.
+5. **Revisar y archivar.** Mostrar paciente, versión del consentimiento y documento recibido. El profesional confirma la correspondencia y la firma antes de marcarlo como firmado. Mantener una copia local que pueda abrirse desde el expediente sin internet y que se incluya en los respaldos cifrados.
+
+La pantalla del paciente mostraría el documento, su estado, las fechas y el historial. Cambiar la plantilla no cambia los consentimientos ya emitidos. Revocar uno conserva el documento y registra la revocación.
+
+## Dos opciones de Google
+
+| Opción | Uso previsto | Condición |
+|---|---|---|
+| Firma electrónica de Google | Pedir la firma de un PDF o documento y recuperar el PDF final con su registro de auditoría. | Workspace Individual u otro plan compatible. La primera versión abriría el trámite en Google; no se promete una API para automatizar la solicitud. |
+| Google Forms y Apps Script | Recibir un PDF o una foto que el paciente ya haya firmado, y ordenar la recepción en Drive. | Configurar el formulario y autorizar el script. Para subir archivos, el paciente tiene que iniciar sesión en una cuenta de Google. |
+
+Forms puede registrar una respuesta de aceptación, pero esa respuesta se muestra como tal, no como una firma electrónica verificada. Si el paciente no usa Google, se conserva la opción de adjuntar el documento manualmente en el programa.
+
+Google puede recibir documentos mientras la PC esté apagada. El programa actualiza la bandeja cuando vuelve a abrirse y dispone de los archivos; no debe prometer recepción local inmediata con la aplicación cerrada.
+
+## Qué existe hoy y qué falta
+
+Hoy se puede editar una plantilla de texto en **Configuración → Consentimiento informado** y adjuntar un PDF o una imagen firmada desde el consentimiento del paciente. La página de firma que genera la edición local apunta al servidor de esa PC; ese enlace no resuelve por sí solo la firma remota.
+
+Falta importar plantillas de documentos, conservar un historial de versiones visible, recibir desde Drive y revisar las respuestas antes de dar el consentimiento por firmado. Al adjuntar un archivo, el flujo actual registra la fecha de adjunto como fecha de firma; el nuevo flujo debe separar ambas fechas.
+
+## Reglas para implementar
+
+- Carpeta de recepción privada y separada de la carpeta de sincronización cifrada de la consulta. Los PDF recibidos son legibles en Drive; no tienen el mismo cifrado con contraseña que los respaldos del programa.
+- Enviar solamente el documento necesario al destinatario previsto. No exponer listados de pacientes ni expedientes completos en un formulario.
+- Un código prellenado de Forms ayuda a relacionar una respuesta, pero puede ser alterado. Validar la solicitud y presentar la correspondencia al profesional; no usar el código como prueba de identidad o de firma.
+- Registrar versión y huella del archivo, identificador de respuesta, origen, destinatario, fecha de recepción y fecha de firma cuando conste. Importar una misma respuesta dos veces no debe duplicar el consentimiento.
+- Conservar el archivo recibido sin modificarlo. Un documento nuevo no sobrescribe el anterior. Los documentos sin correspondencia se quedan en la bandeja para revisión.
+- Filtrar todas las solicitudes y documentos por el titular de la consulta. Las credenciales de Google se configuran mediante el mecanismo de integraciones del programa.
+- Adjuntar o recibir un documento no concede automáticamente autorización para procesar datos con IA. Esa autorización necesita un consentimiento específico registrado.
+
+## Orden de implementación
+
+Primero, importación local, versiones y revisión del documento firmado. Después, bandeja de recepción desde una carpeta de Drive para escritorio, aprovechando la instalación existente. Por último, preparar el formulario y Apps Script o conectar el flujo de firma de Workspace, según la cuenta y el documento que use el profesional.
+
+## Fuentes de Google
+
+- [Firma electrónica: planes compatibles y PDF con auditoría](https://support.google.com/drive/answer/12315692?hl=es).
+- [Ejemplo oficial: ordenar archivos recibidos en Forms mediante Apps Script](https://developers.google.com/apps-script/samples/automations/upload-files).
+- [Forms: iniciar sesión para subir un archivo](https://support.google.com/docs/answer/15473134?hl=es).
